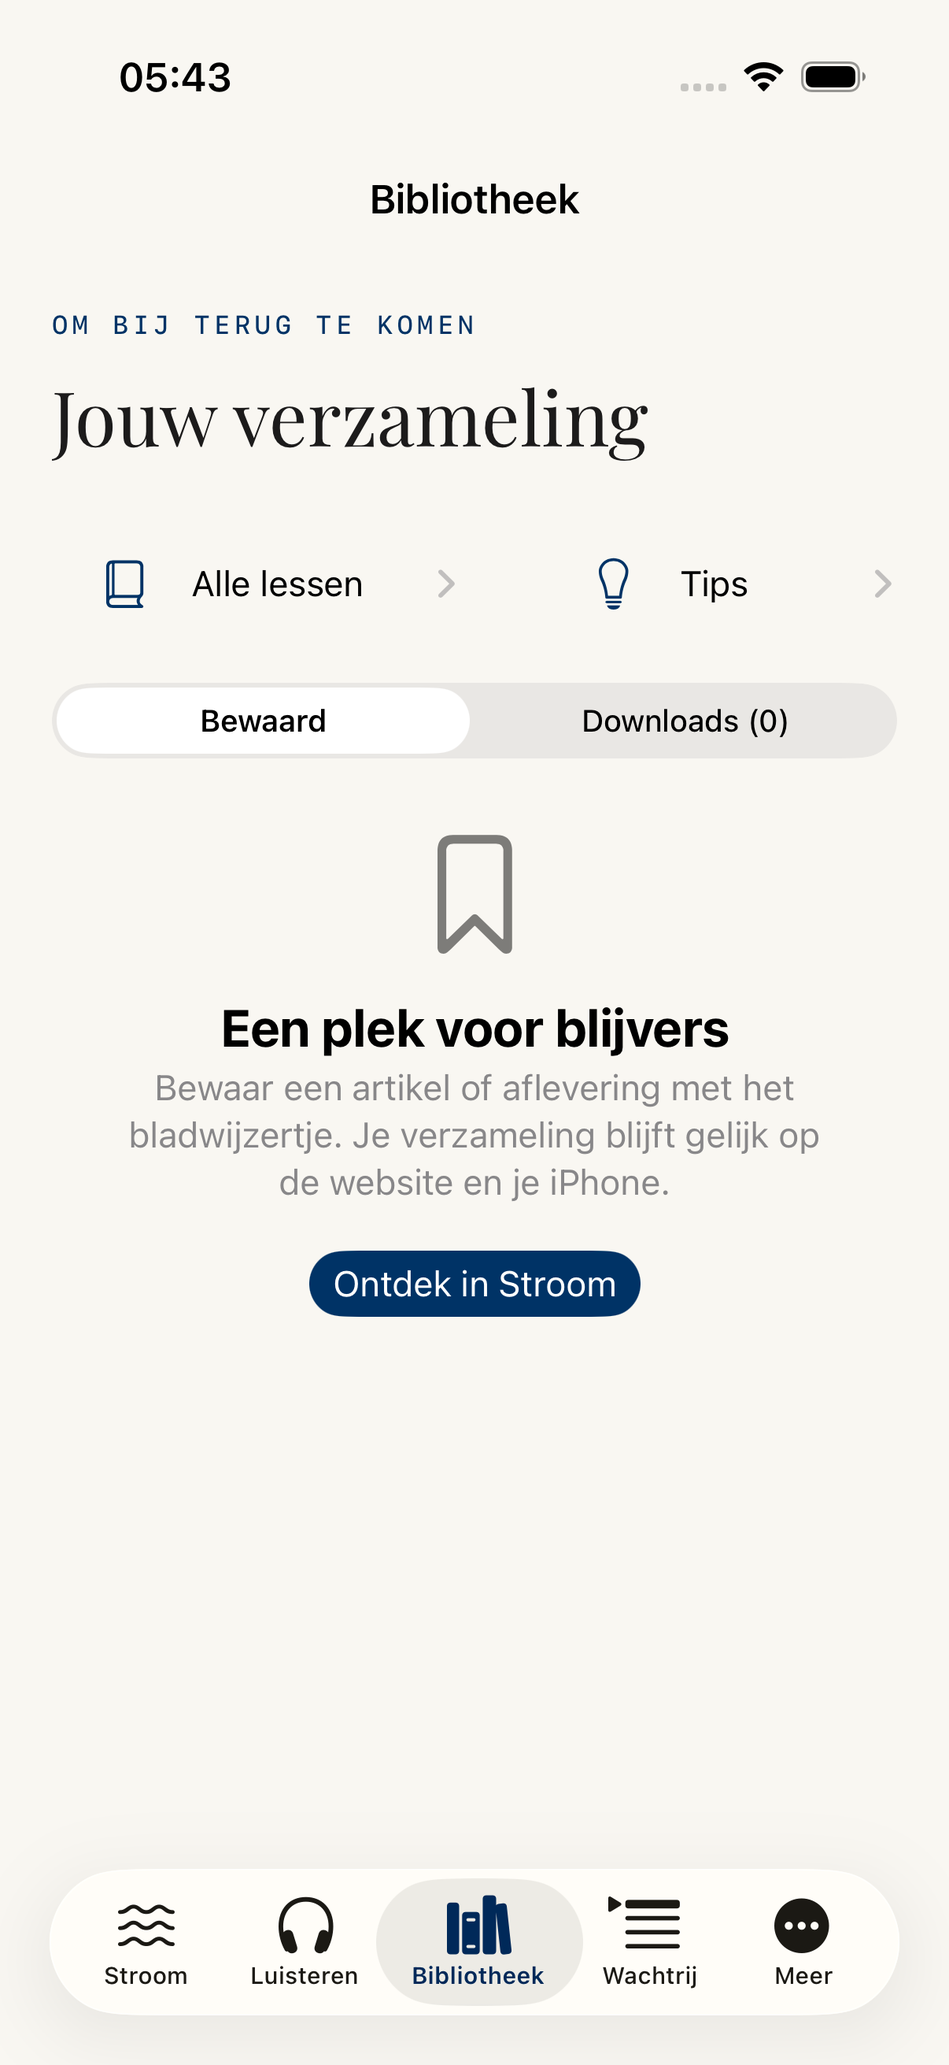
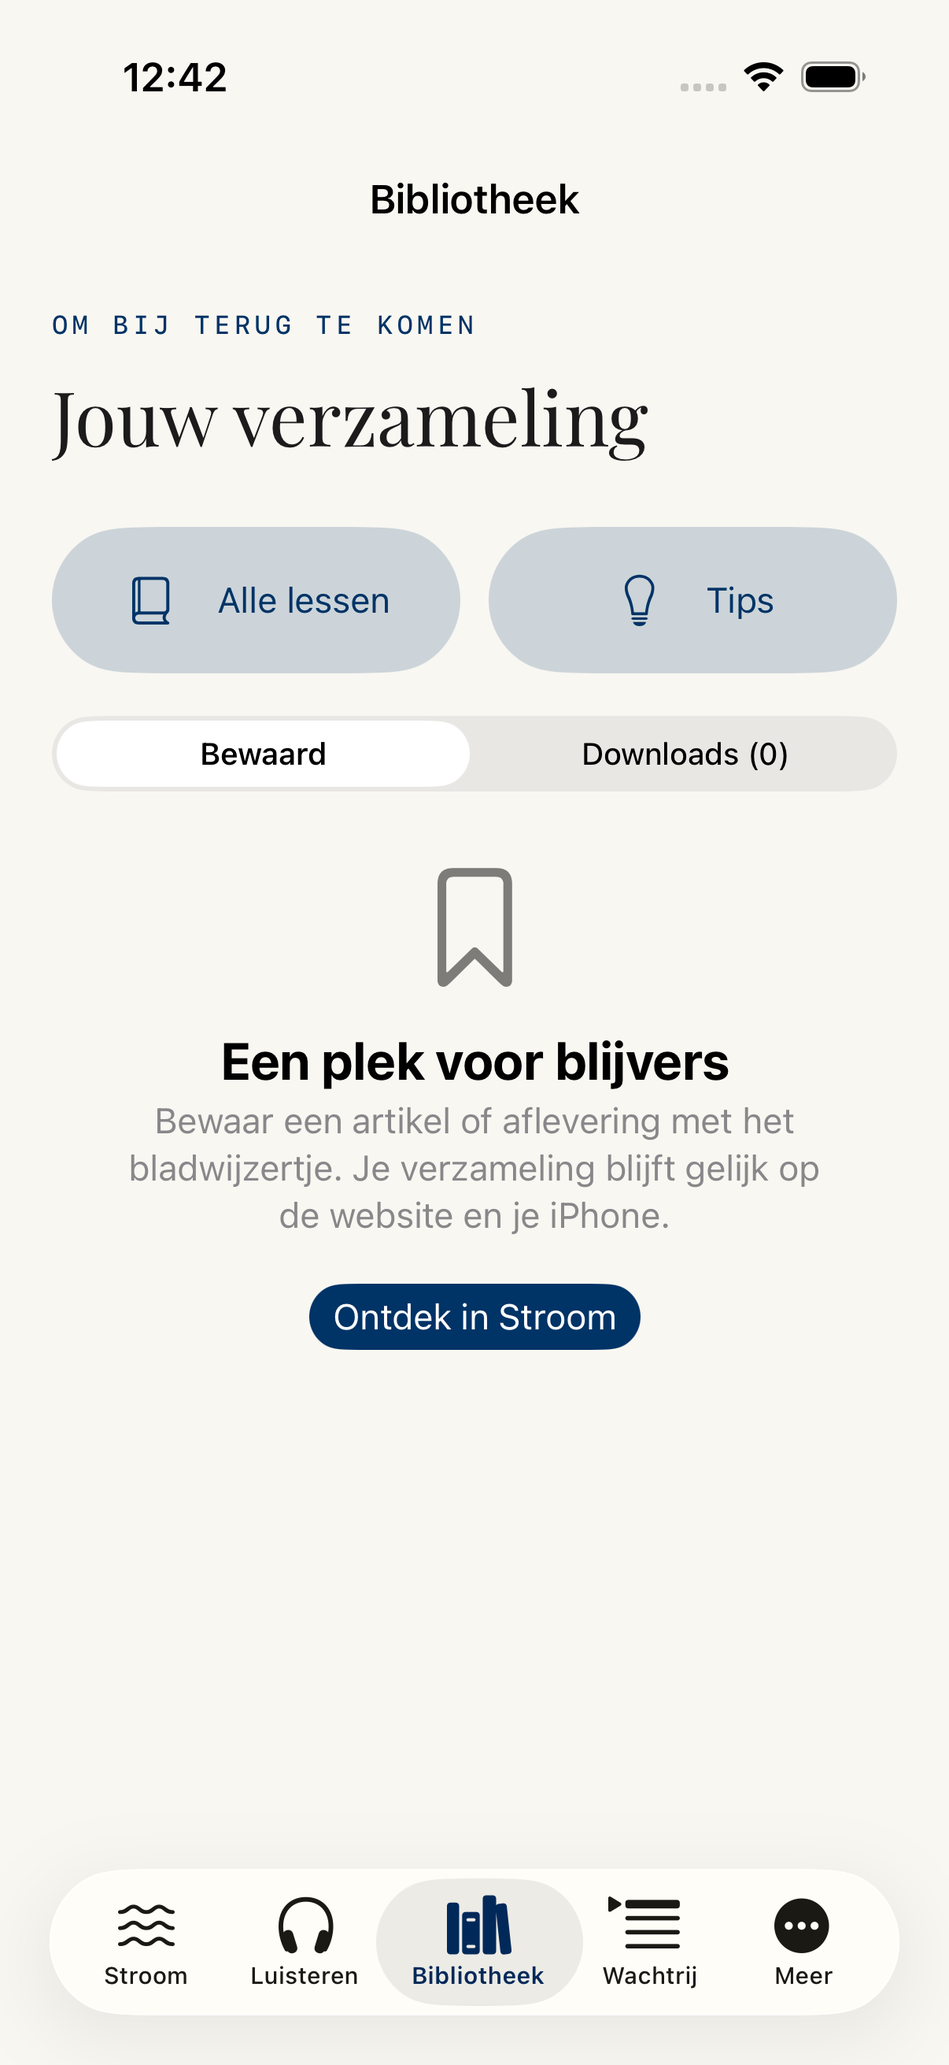
Fix iOS navigation and queue affordances from design review

Changed region(s): [[0.1227, 0.4016, 0.859, 0.6796], [0.0307, 0.2471, 0.9511, 0.3707], [0.1227, 0.0309, 0.2454, 0.0618]]

diff --git a/ios/StroomUITests/NavigationTests.swift b/ios/StroomUITests/NavigationTests.swift
@@ -255,9 +255,16 @@ extension NavigationTests {
         XCTAssertTrue(
           app.buttons["Wat verandert er als AI echt met je meedenkt?"].isHittable,
           "De eerste bron moet bereikbaar zijn zonder eerst door bediening te scrollen")
-        app.buttons["digest-daily"].tap()
-        XCTAssertTrue(app.staticTexts["Het grotere plaatje"].waitForExistence(timeout: 5))
-        app.navigationBars["Overzichten"].buttons.element(boundBy: 0).tap()
+        for (window, period) in [("daily", "Dag"), ("weekly", "Week")] {
+          XCTAssertTrue(app.staticTexts["digest-excerpt-\(window)"].exists)
+          app.buttons["digest-\(window)"].tap()
+          XCTAssertTrue(app.staticTexts["Het grotere plaatje"].waitForExistence(timeout: 5))
+          XCTAssertTrue(app.segmentedControls.buttons[period].isSelected)
+          app.swipeUp()
+          app.swipeDown()
+          XCTAssertTrue(app.navigationBars["Overzichten"].exists)
+          app.navigationBars["Overzichten"].buttons.element(boundBy: 0).tap()
+        }
       }
       app.buttons["Filters"].tap()
       XCTAssertTrue(app.buttons["Wis alle filters"].waitForExistence(timeout: 5))
@@ -274,6 +281,16 @@ extension NavigationTests {
       library.name = "Design-bibliotheek-" + mode
       library.lifetime = .keepAlways
       add(library)
+      for (button, title, content) in [
+        ("Tips", "Tips", "Een wereld vol vragen"),
+        ("Alle lessen", "Lessen", "Stel eerst een betere vraag"),
+      ] {
+        app.buttons[button].tap()
+        XCTAssertTrue(app.navigationBars[title].waitForExistence(timeout: 5))
+        XCTAssertTrue(app.staticTexts[content].exists)
+        app.navigationBars[title].buttons.element(boundBy: 0).tap()
+        XCTAssertTrue(app.staticTexts["Jouw verzameling"].exists)
+      }
       if mode == "--large-text" {
         app.tabBars.buttons["Stroom"].tap()
         let article = app.buttons["Wat verandert er als AI echt met je meedenkt?"]
@@ -291,5 +308,60 @@ extension NavigationTests {
       }
       app.terminate()
     }
+  }
+
+  @MainActor func testHeadingDoesNotClearActiveFilters() throws {
+    let app = XCUIApplication()
+    app.launchArguments = ["--demo", "--reset-topic"]
+    app.launch()
+    XCTAssertTrue(app.buttons["Filters"].waitForExistence(timeout: 10))
+    app.buttons["Filters"].tap()
+    app.buttons["filter-period"].tap()
+    app.buttons["7 dagen"].tap()
+    app.buttons["Gereed"].tap()
+    XCTAssertTrue(app.staticTexts["1 filters actief"].waitForExistence(timeout: 5))
+    app.staticTexts["AI & technologie"].firstMatch.tap()
+    XCTAssertTrue(app.staticTexts["1 filters actief"].exists)
+    app.staticTexts["JOUW SELECTIE"].tap()
+    XCTAssertTrue(app.staticTexts["1 filters actief"].exists)
+    app.buttons["Wis filters"].firstMatch.tap()
+    XCTAssertFalse(app.staticTexts["1 filters actief"].exists)
+    app.terminate()
+  }
+
+  @MainActor func testReadingQueueAndPlayNextStayIndependent() throws {
+    let app = XCUIApplication()
+    app.launchArguments = ["--demo", "--reset-topic", "--design-preview"]
+    app.launch()
+    XCTAssertTrue(app.tabBars.buttons["Luisteren"].waitForExistence(timeout: 10))
+    app.tabBars.buttons["Luisteren"].tap()
+    let next = app.buttons["Speel hierna af"]
+    for _ in 0..<5 {
+      if next.isHittable { break }
+      app.swipeUp()
+    }
+    XCTAssertTrue(next.isHittable)
+    next.tap()
+    XCTAssertEqual(next.value as? String, "Staat in Hierna")
+    app.buttons["In leeswachtrij"].firstMatch.tap()
+    XCTAssertTrue(app.staticTexts["Toegevoegd aan je wachtrij"].waitForExistence(timeout: 5))
+    let queues = XCTAttachment(screenshot: app.screenshot())
+    queues.name = "Review-twee-wachtrijen"
+    queues.lifetime = .keepAlways
+    add(queues)
+    app.buttons["Open speler: Wat verandert er als AI echt met je meedenkt?"].tap()
+    let remove = app.buttons["Verwijder uit Hierna: Wat verandert er als AI echt met je meedenkt?"]
+    for _ in 0..<4 {
+      if remove.isHittable { break }
+      app.swipeUp()
+    }
+    XCTAssertTrue(remove.isHittable)
+    remove.tap()
+    XCTAssertFalse(remove.exists)
+    app.buttons["Gereed"].tap()
+    app.tabBars.buttons["Wachtrij"].tap()
+    XCTAssertTrue(
+      app.buttons["Wat verandert er als AI echt met je meedenkt?"].waitForExistence(timeout: 5))
+    app.terminate()
   }
 }

diff --git a/ios/Stroom/FeedComponents.swift b/ios/Stroom/FeedComponents.swift
@@ -55,31 +55,34 @@ struct FeedCard: View {
           item.sourceName + (item.qualityScore.map { ", kwaliteit \($0.formatted()) op 10" } ?? "")
         )
         .accessibilityHint("Open bron, samenvatting en inzichten")
+      if let track = item.track {
+        TrackActions(track: track).padding(.horizontal, 20).padding(.bottom, 4)
+      }
       HStack(spacing: 10) {
-        if let track = item.track {
-          TrackActions(track: track)
+        if item.hasSummary == true || item.summary?.isEmpty == false {
+          Label("Samengevat", systemImage: "sparkles").font(.caption).foregroundStyle(Brand.blue)
         } else {
-          if item.hasSummary == true || item.summary?.isEmpty == false {
-            Label("Samengevat", systemImage: "sparkles").font(.caption).foregroundStyle(Brand.blue)
-          } else {
-            Label(
-              item.format == "video" ? "Bekijk bron en inzichten" : "Lees artikel",
-              systemImage: item.format == "video" ? "play.rectangle" : "text.alignleft"
-            )
-            .font(.caption).foregroundStyle(Brand.muted)
-          }
-          Spacer(minLength: 0)
-          Button {
-            Task { await store.setQueued(item, queued: !store.queuedIDs.contains(item.id)) }
-          } label: {
-            Image(
-              systemName: store.queuedIDs.contains(item.id)
-                ? "text.badge.checkmark" : "text.badge.plus"
-            )
-            .frame(width: 44, height: 44)
-          }.accessibilityLabel(store.queuedIDs.contains(item.id) ? "Uit wachtrij" : "In wachtrij")
-            .disabled(item.status == "archived" || store.changing.contains(item.id))
+          Label(
+            item.format == "video" ? "Bekijk bron en inzichten" : "Lees artikel",
+            systemImage: item.format == "video" ? "play.rectangle" : "text.alignleft"
+          )
+          .font(.caption).foregroundStyle(Brand.muted)
         }
+        Spacer(minLength: 0)
+        Button {
+          Task { await store.setQueued(item, queued: !store.queuedIDs.contains(item.id)) }
+        } label: {
+          Label(
+            "Wachtrij",
+            systemImage: store.queuedIDs.contains(item.id)
+              ? "text.badge.checkmark" : "text.badge.plus"
+          )
+          .font(.caption).frame(minWidth: 44, minHeight: 44)
+        }.accessibilityLabel(
+          store.queuedIDs.contains(item.id) ? "Uit leeswachtrij" : "In leeswachtrij"
+        )
+        .accessibilityHint("Gedeeld met de Stroom-website")
+        .disabled(item.status == "archived" || store.changing.contains(item.id))
       }.buttonStyle(.borderless).padding(.horizontal, 20).padding(.bottom, 10)
     }.background(Brand.card, in: RoundedRectangle(cornerRadius: 22))
       .clipShape(RoundedRectangle(cornerRadius: 22))
@@ -157,8 +160,10 @@ struct TrackActions: View {
         } label: {
           Image(
             systemName: player.queue.contains(where: { $0.id == track.id })
-              ? "checkmark" : "text.badge.plus")
+              ? "checkmark" : "text.line.last.and.arrowtriangle.forward")
         }.frame(minWidth: 44, minHeight: 44).accessibilityLabel("Speel hierna af")
+          .accessibilityValue(
+            player.queue.contains(where: { $0.id == track.id }) ? "Staat in Hierna" : "")
         if library.downloading.contains(track.id) {
           ProgressView().accessibilityLabel("Downloaden")
         } else if library.localURL(for: track) != nil {
@@ -188,6 +193,7 @@ struct ErrorNotice: View {
     VStack(alignment: .leading, spacing: 8) {
       Label(message, systemImage: "exclamationmark.circle").font(.callout)
       Button("Opnieuw proberen") { Task { await retry() } }.font(.callout.weight(.semibold))
+        .buttonStyle(.borderless)
     }.foregroundStyle(.secondary).padding(16).frame(maxWidth: .infinity, alignment: .leading)
       .background(Brand.card, in: RoundedRectangle(cornerRadius: 14))
   }

diff --git a/ios/Stroom/DigestView.swift b/ios/Stroom/DigestView.swift
@@ -11,14 +11,12 @@ struct DigestPreview: View {
   @EnvironmentObject var store: AppStore
   let topic: String
   let window: String
+  let open: () -> Void
   @State private var digest: Digest?
   @State private var error: String?
   @State private var loading = true
-  @State private var showingDigest = false
   var body: some View {
-    Button {
-      showingDigest = true
-    } label: {
+    Button(action: open) {
       VStack(alignment: .leading, spacing: 10) {
         HStack {
           Image(systemName: window == "daily" ? "sun.max" : "calendar")
@@ -27,24 +25,28 @@ struct DigestPreview: View {
         }.foregroundStyle(Brand.blue).accessibilityHidden(true)
         Text(window == "daily" ? "Vandaag" : "Deze week")
           .font(Brand.editorial(22)).foregroundStyle(Brand.ink)
-        Text(
-          digest?.isGenerating == true
-            ? "Wordt gemaakt…"
-            : (digest?.markdown != nil
-              ? "Lees het overzicht"
+        if let markdown = digest?.markdown, !ContentText.excerpt(markdown).isEmpty {
+          Text(ContentText.excerpt(markdown)).font(.caption).foregroundStyle(Brand.muted)
+            .lineLimit(3).multilineTextAlignment(.leading)
+            .accessibilityIdentifier("digest-excerpt-\(window)")
+          if digest?.isGenerating == true {
+            Text("Wordt vernieuwd…").font(.caption).foregroundStyle(Brand.muted)
+          }
+        } else {
+          Text(
+            digest?.isGenerating == true
+              ? "Wordt gemaakt…"
               : (loading
-                ? "Ophalen…" : (error != nil ? "Ophalen mislukt · open" : "Maak een overzicht")))
-        )
-        .font(.caption).foregroundStyle(Brand.muted).fixedSize(horizontal: false, vertical: true)
+                ? "Ophalen…" : (error != nil ? "Ophalen mislukt · open" : "Maak een overzicht"))
+          )
+          .font(.caption).foregroundStyle(Brand.muted).fixedSize(horizontal: false, vertical: true)
+        }
       }.frame(minWidth: 120, maxWidth: .infinity, alignment: .leading)
         .padding(16).background(Brand.card, in: RoundedRectangle(cornerRadius: 18))
     }.buttonStyle(.plain).accessibilityHint(
       "Open het \(window == "daily" ? "dagoverzicht" : "weekoverzicht")"
     )
     .accessibilityIdentifier("digest-\(window)")
-    .navigationDestination(isPresented: $showingDigest) {
-      DigestView(topic: topic, initialWindow: window)
-    }
     .task(id: "\(topic)|\(window)") {
       digest = nil
       error = nil

diff --git a/ios/Stroom/HomeView.swift b/ios/Stroom/HomeView.swift
@@ -1,5 +1,10 @@
 import SwiftUI
 
+private struct DigestDestination: Hashable {
+  let topic: String
+  let window: String
+}
+
 struct FeedScreen: View {
   @EnvironmentObject var store: AppStore
   @Environment(\.dynamicTypeSize) private var typeSize
@@ -18,6 +23,7 @@ struct FeedScreen: View {
   @State private var requestID = UUID()
   @State private var archiveTarget: HuygensRail?
   @State private var archiving = false
+  @State private var digestDestination: DigestDestination?
 
   var isRanked: Bool {
     store.selectedTopic != "__all__" && filter == "all" && window == "all" && format == "all"
@@ -58,7 +64,7 @@ struct FeedScreen: View {
             Label("\(activeFilters) filters actief", systemImage: "line.3.horizontal.decrease")
               .font(.subheadline)
             Spacer()
-            Button("Wis filters") { resetFilters() }.frame(minHeight: 44)
+            Button("Wis filters") { resetFilters() }.buttonStyle(.borderless).frame(minHeight: 44)
           }
         }
         if let error { ErrorNotice(message: error) { await reload() } }
@@ -136,6 +142,9 @@ struct FeedScreen: View {
       }
     }
     .listStyle(.plain).scrollContentBackground(.hidden).background(Brand.paper)
+    .navigationDestination(item: $digestDestination) { destination in
+      DigestView(topic: destination.topic, initialWindow: destination.window)
+    }
     .navigationTitle(podcastsOnly ? "Luisteren" : "Stroom").navigationBarTitleDisplayMode(.inline)
     .toolbar {
       ToolbarItem(placement: .principal) {
@@ -198,8 +207,12 @@ struct FeedScreen: View {
     }
   }
   @ViewBuilder var digestLinks: some View {
-    DigestPreview(topic: store.selectedTopic, window: "daily")
-    DigestPreview(topic: store.selectedTopic, window: "weekly")
+    DigestPreview(topic: store.selectedTopic, window: "daily") {
+      digestDestination = DigestDestination(topic: store.selectedTopic, window: "daily")
+    }
+    DigestPreview(topic: store.selectedTopic, window: "weekly") {
+      digestDestination = DigestDestination(topic: store.selectedTopic, window: "weekly")
+    }
   }
   var topicChips: some View {
     ScrollView(.horizontal, showsIndicators: false) {
@@ -227,7 +240,7 @@ struct FeedScreen: View {
       Text("24 uur").tag("24h")
       Text("7 dagen").tag("7d")
       Text("30 dagen").tag("30d")
-    }
+    }.accessibilityIdentifier("filter-period")
     if !podcastsOnly {
       Picker("Soort", selection: $format) {
         Text("Alles").tag("all")

diff --git a/ios/Stroom/LibraryView.swift b/ios/Stroom/LibraryView.swift
@@ -1,6 +1,10 @@
 import AVKit
 import SwiftUI
 
+private enum LibraryDestination: Hashable {
+  case lessons, tips
+}
+
 struct LibraryView: View {
   @EnvironmentObject var store: AppStore
   @EnvironmentObject var player: AudioPlayer
@@ -10,6 +14,7 @@ struct LibraryView: View {
   @State private var error: String?
   @State private var loading = true
   @State private var selection = "saved"
+  @State private var destination: LibraryDestination?
   var body: some View {
     List {
       VStack(alignment: .leading, spacing: 18) {
@@ -18,14 +23,14 @@ struct LibraryView: View {
           typeSize.isAccessibilitySize
           ? AnyLayout(VStackLayout(spacing: 12)) : AnyLayout(HStackLayout(spacing: 12))
         layout {
-          NavigationLink {
-            AllLessonsView()
+          Button {
+            destination = .lessons
           } label: {
             Label("Alle lessen", systemImage: "book.closed").frame(
               maxWidth: .infinity, minHeight: 48)
           }
-          NavigationLink {
-            TipsView()
+          Button {
+            destination = .tips
           } label: {
             Label("Tips", systemImage: "lightbulb").frame(maxWidth: .infinity, minHeight: 48)
           }
@@ -88,6 +93,12 @@ struct LibraryView: View {
       }
     }.listStyle(.plain).scrollContentBackground(.hidden).background(Brand.paper)
       .navigationTitle("Bibliotheek").navigationBarTitleDisplayMode(.inline)
+      .navigationDestination(item: $destination) { destination in
+        switch destination {
+        case .lessons: AllLessonsView()
+        case .tips: TipsView()
+        }
+      }
       .task { await load() }.refreshable { await load() }
   }
   func load() async {

diff --git a/ios/Stroom/AppStore.swift b/ios/Stroom/AppStore.swift
@@ -456,6 +456,9 @@ final class AppStore: ObservableObject {
         sourceName: "Nooit meer slapen", format: "podcast", qualityScore: 9.1),
     ]
     items[0].summaryModel = "Voorbeeldmodel"
+    if ProcessInfo.processInfo.arguments.contains("--design-preview") {
+      items[0].mediaUrl = "https://example.invalid/preview.mp3"
+    }
     items[0].transcriptSegments = [
       TranscriptSegment(
         start: 0, end: 30, text: "Goede technologie begint met betere vragen.",

diff --git a/ios/Stroom/PlayerView.swift b/ios/Stroom/PlayerView.swift
@@ -148,7 +148,7 @@ struct NowPlayingView: View {
                     player.removeFromQueue(at: IndexSet(integer: index))
                   } label: {
                     Image(systemName: "minus.circle").frame(width: 44, height: 44)
-                  }.accessibilityLabel("Verwijder uit wachtrij")
+                  }.accessibilityLabel("Verwijder uit Hierna: \(track.title)")
                 }
               }
             }

diff --git a/ios/DESIGN.md b/ios/DESIGN.md
@@ -10,7 +10,7 @@ De native vertaling volgt Apple's richtlijnen voor [iOS](https://developer.apple
 
 ## Ontwerpkeuzes
 
-1. **De bron komt eerder in beeld.** Onderwerpkeuze blijft direct bereikbaar. Status, periode en mediatype staan in een filterpaneel met een zichtbare actieve-filterstatus en herstelknop. Dag- en weekoverzicht staan naast elkaar; bij grote toegankelijkheidstekst onder elkaar. Lege mediarubrieken nemen geen ruimte in.
+1. **De bron komt eerder in beeld.** Onderwerpkeuze blijft direct bereikbaar. Status, periode en mediatype staan in een filterpaneel met een zichtbare actieve-filterstatus en herstelknop. Dag- en weekoverzicht tonen drie regels opgeschoonde inhoud. Ze staan naast elkaar; bij grote toegankelijkheidstekst onder elkaar. Lege mediarubrieken nemen geen ruimte in.
 2. **Elk medium krijgt zijn eigen vorm.** Artikelen hebben een ruime Newsreader-kop en eventueel een bronfoto. Podcasts hebben vierkante illustraties en afspeelbediening. Video’s hebben een brede thumbnail. De hele inhoud van de kaart opent de reader; losse knoppen blijven afzonderlijk bedienbaar. Score, bron en wachtrijstatus zijn ondergeschikt maar leesbaar.
 3. **Lezen en handelen krijgen elk een vaste plek.** Bron, samenvatting, lessen, transcript en vraag blijven tijdens scrollen bereikbaar. Bewaren, wachtrij en het actiemenu staan onderaan. Planning, curatie, delen en archiveren zitten in dat menu. De dubbele openingsquote is verwijderd. Leesgrootte blijft instelbaar; de tekst volgt daarnaast Dynamic Type.
 4. **Luisteren blijft bij de hand.** De minispeler toont voortgang en heeft play/pauze en dertig seconden vooruit. Verder luisteren is prominent op het luisterscherm. Opnieuw op Luister tikken pauzeert een actieve aflevering in plaats van haar opnieuw te openen. De volledige speler behoudt seek, tempo, timer, AirPlay en afspeelwachtrij.
@@ -22,12 +22,13 @@ De native vertaling volgt Apple's richtlijnen voor [iOS](https://developer.apple
 - De basiskleuren volgen de website. In donkere modus zijn de tekstaccenten lichter voor contrast. Gemeten combinaties van ink, muted, blue en green op paper/card lopen van 5,29:1 tot 16,05:1 en voldoen daarmee aan 4,5:1 voor gewone tekst. Dit is een tokencontrole, geen claim dat elke pixel automatisch is geaudit.
 - De belangrijke bediening heeft minimaal 44 punten raakvlak. Bij grote tekst worden de bibliotheeksnelkoppelingen gestapeld en de readeracties compact weergegeven met volledige toegankelijkheidslabels.
 - Kleurmodus: Volg iPhone, Licht of Donker. Motion gebruikt de bestaande native overgangen; er zijn geen doorlopende decoratieve animaties toegevoegd.
-- De oorspronkelijke links/rechts-swipes blijven archiveren en toevoegen aan de gedeelde leeswachtrij. De afspeelwachtrij blijft een afzonderlijke spelerfunctie.
+- De oorspronkelijke links/rechts-swipes blijven archiveren en toevoegen aan de gedeelde leeswachtrij. Elke contentkaart heeft ook een gelabelde leeswachtrijknop. De afspeelwachtrij heet in de speler **Hierna**, met een eigen afspeelvolgorde-icoon en expliciete verwijderlabels.
+- Bibliotheekknoppen zetten een bestemming op schermniveau; ook dag- en weekoverzicht navigeren vanuit de volledige lijst. Navigatiebestemmingen hangen niet aan hergebruikte lijstrijen. Wis filters en Opnieuw proberen gebruiken afzonderlijke tikvlakken.
 
 ## Controle
 
 De UI-tests doorlopen home, onderwerpwissel, reader, lessen, vragen, bewaren/archiveren, planning, curatie, insturen, Tips, bibliotheek, filters en grote tekst. Er zijn aanvullende controles voor de gebundelde lettertypen en de spelerpresentatie. Screenshots gebruiken expliciete demodata. `--design-preview` initialiseert uitsluitend een visuele spelerfixture; er wordt daarmee geen audiostream geopend.
 
-Op de iPhone 17 Pro-simulator zijn 33 unittests en alle 9 UI-tests geslaagd. De screenshots in `review/design/` zijn echte simulatorbeelden uit deze tests, in lichte en donkere modus en met grote tekst. De kleinere spelerillustratie is daarna afzonderlijk gecontroleerd op bereikbaarheid van tempo en slaaptimer.
+Op de iPhone 17 Pro-simulator zijn 33 unittests en alle 11 UI-tests geslaagd. Deze volledige run omvat beide bibliotheekknoppen, dag- en weeknavigatie, het behouden van filters bij tikken op de kop en de onafhankelijkheid van leeswachtrij en Hierna. De screenshots in `review/design/` zijn echte simulatorbeelden uit deze tests, in lichte en donkere modus en met grote tekst. De projectkopie compileert ook voor een generiek iOS-apparaat met signing uitgeschakeld.
 
 Audio, AirPlay, het deelmenu en notificatiegedrag moeten ook op een fysieke iPhone worden beoordeeld. De visuele spelerfixture test geen audiostream of achtergrondweergave.

diff --git a/ios/review/design/README.md b/ios/review/design/README.md
@@ -8,8 +8,9 @@ Onbewerkte screenshots van iPhone 17 Pro (iOS 26.3), met expliciete demodata.
 - `bibliotheek-*`: bewaarde inhoud en downloads, inclusief lege toestand.
 - `filters-*`: status, periode en formaat.
 - `wachtrij-licht`: toevoegen aan de gedeelde wachtrij.
+- `twee-wachtrijen`: afzonderlijke leeswachtrij- en Hierna-bediening op een podcastkaart.
 - `*-grote-tekst`: Dynamic Type op toegankelijkheidsniveau 2.
 
-Validatie: 33 unittests en 9 UI-tests geslaagd; de definitieve speler en de doorgifte van tekstgrootte naar sheets daarna afzonderlijk opnieuw gecontroleerd. De leverbare projectkopie compileert voor een generiek iOS-apparaat met signing uitgeschakeld. Dit bevestigt geen installatie of audio-/notificatiegedrag op een fysieke iPhone.
+Validatie: 33 unittests en 11 UI-tests geslaagd in één volledige run, inclusief de vijf reviewcorrecties. De leverbare projectkopie compileert voor een generiek iOS-apparaat met signing uitgeschakeld. Dit bevestigt geen installatie of audio-/notificatiegedrag op een fysieke iPhone.
 
 Zie [DESIGN.md](../../DESIGN.md) voor onderzoek en ontwerpkeuzes.
